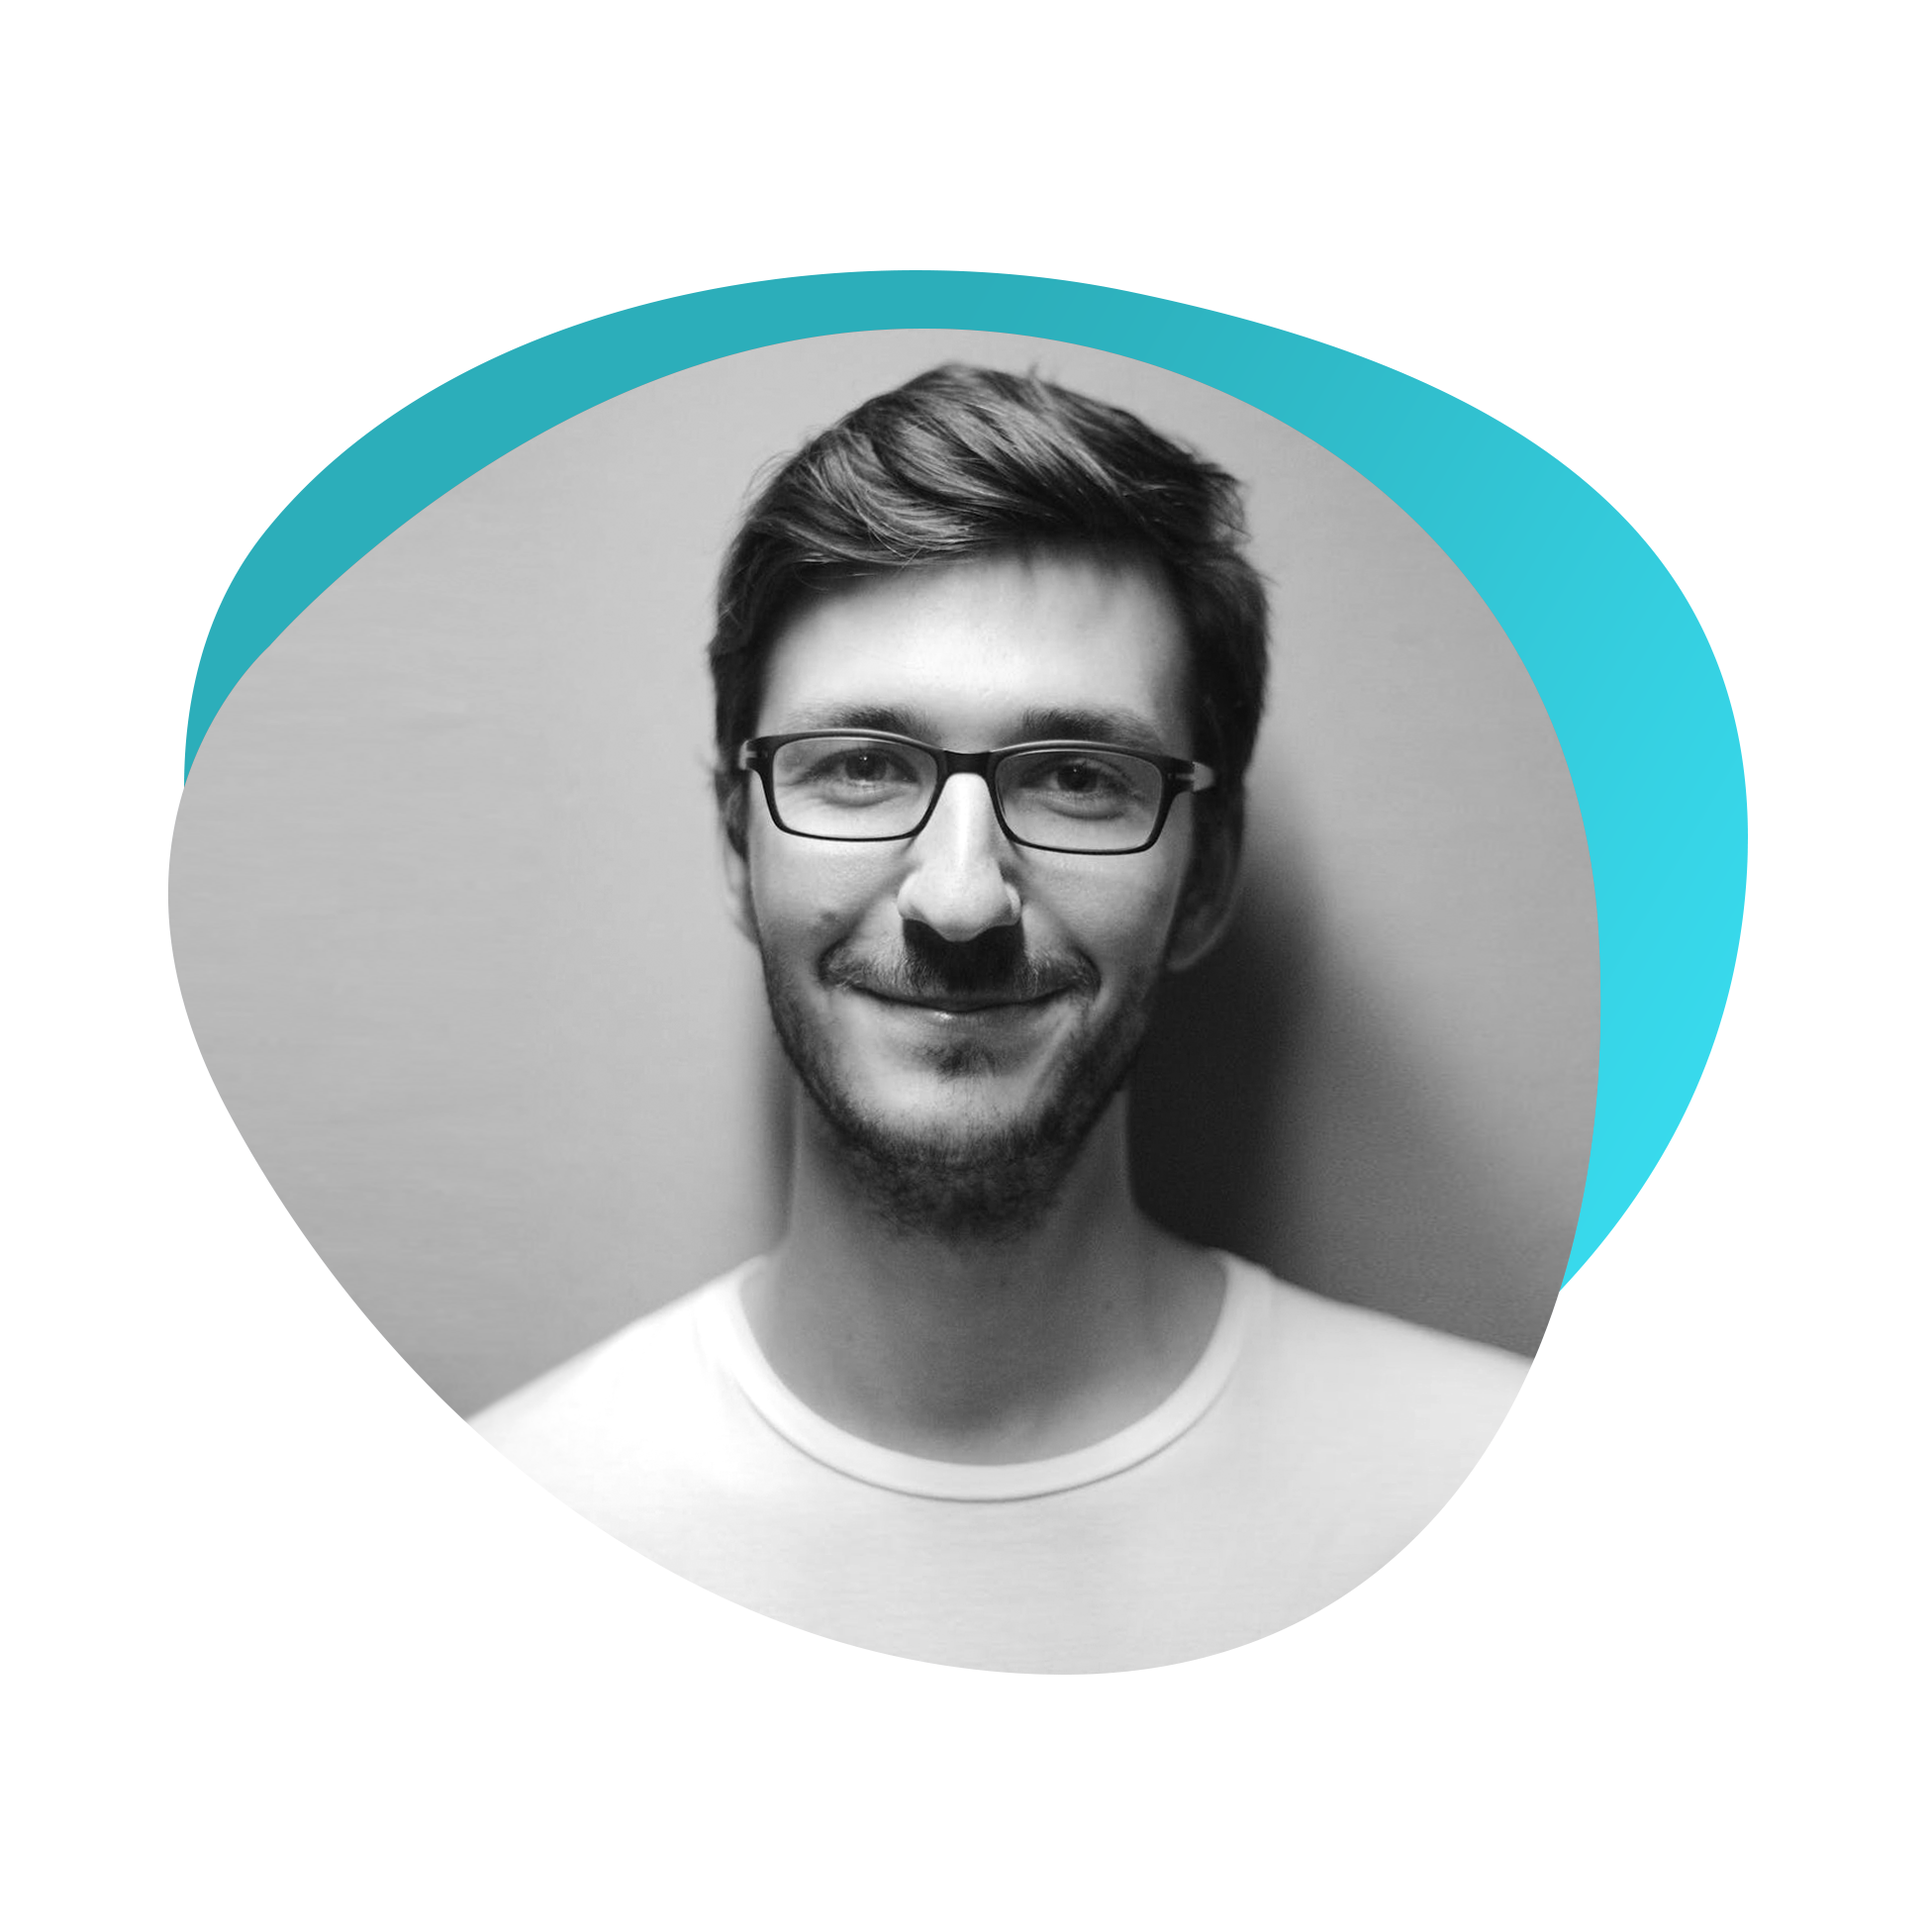
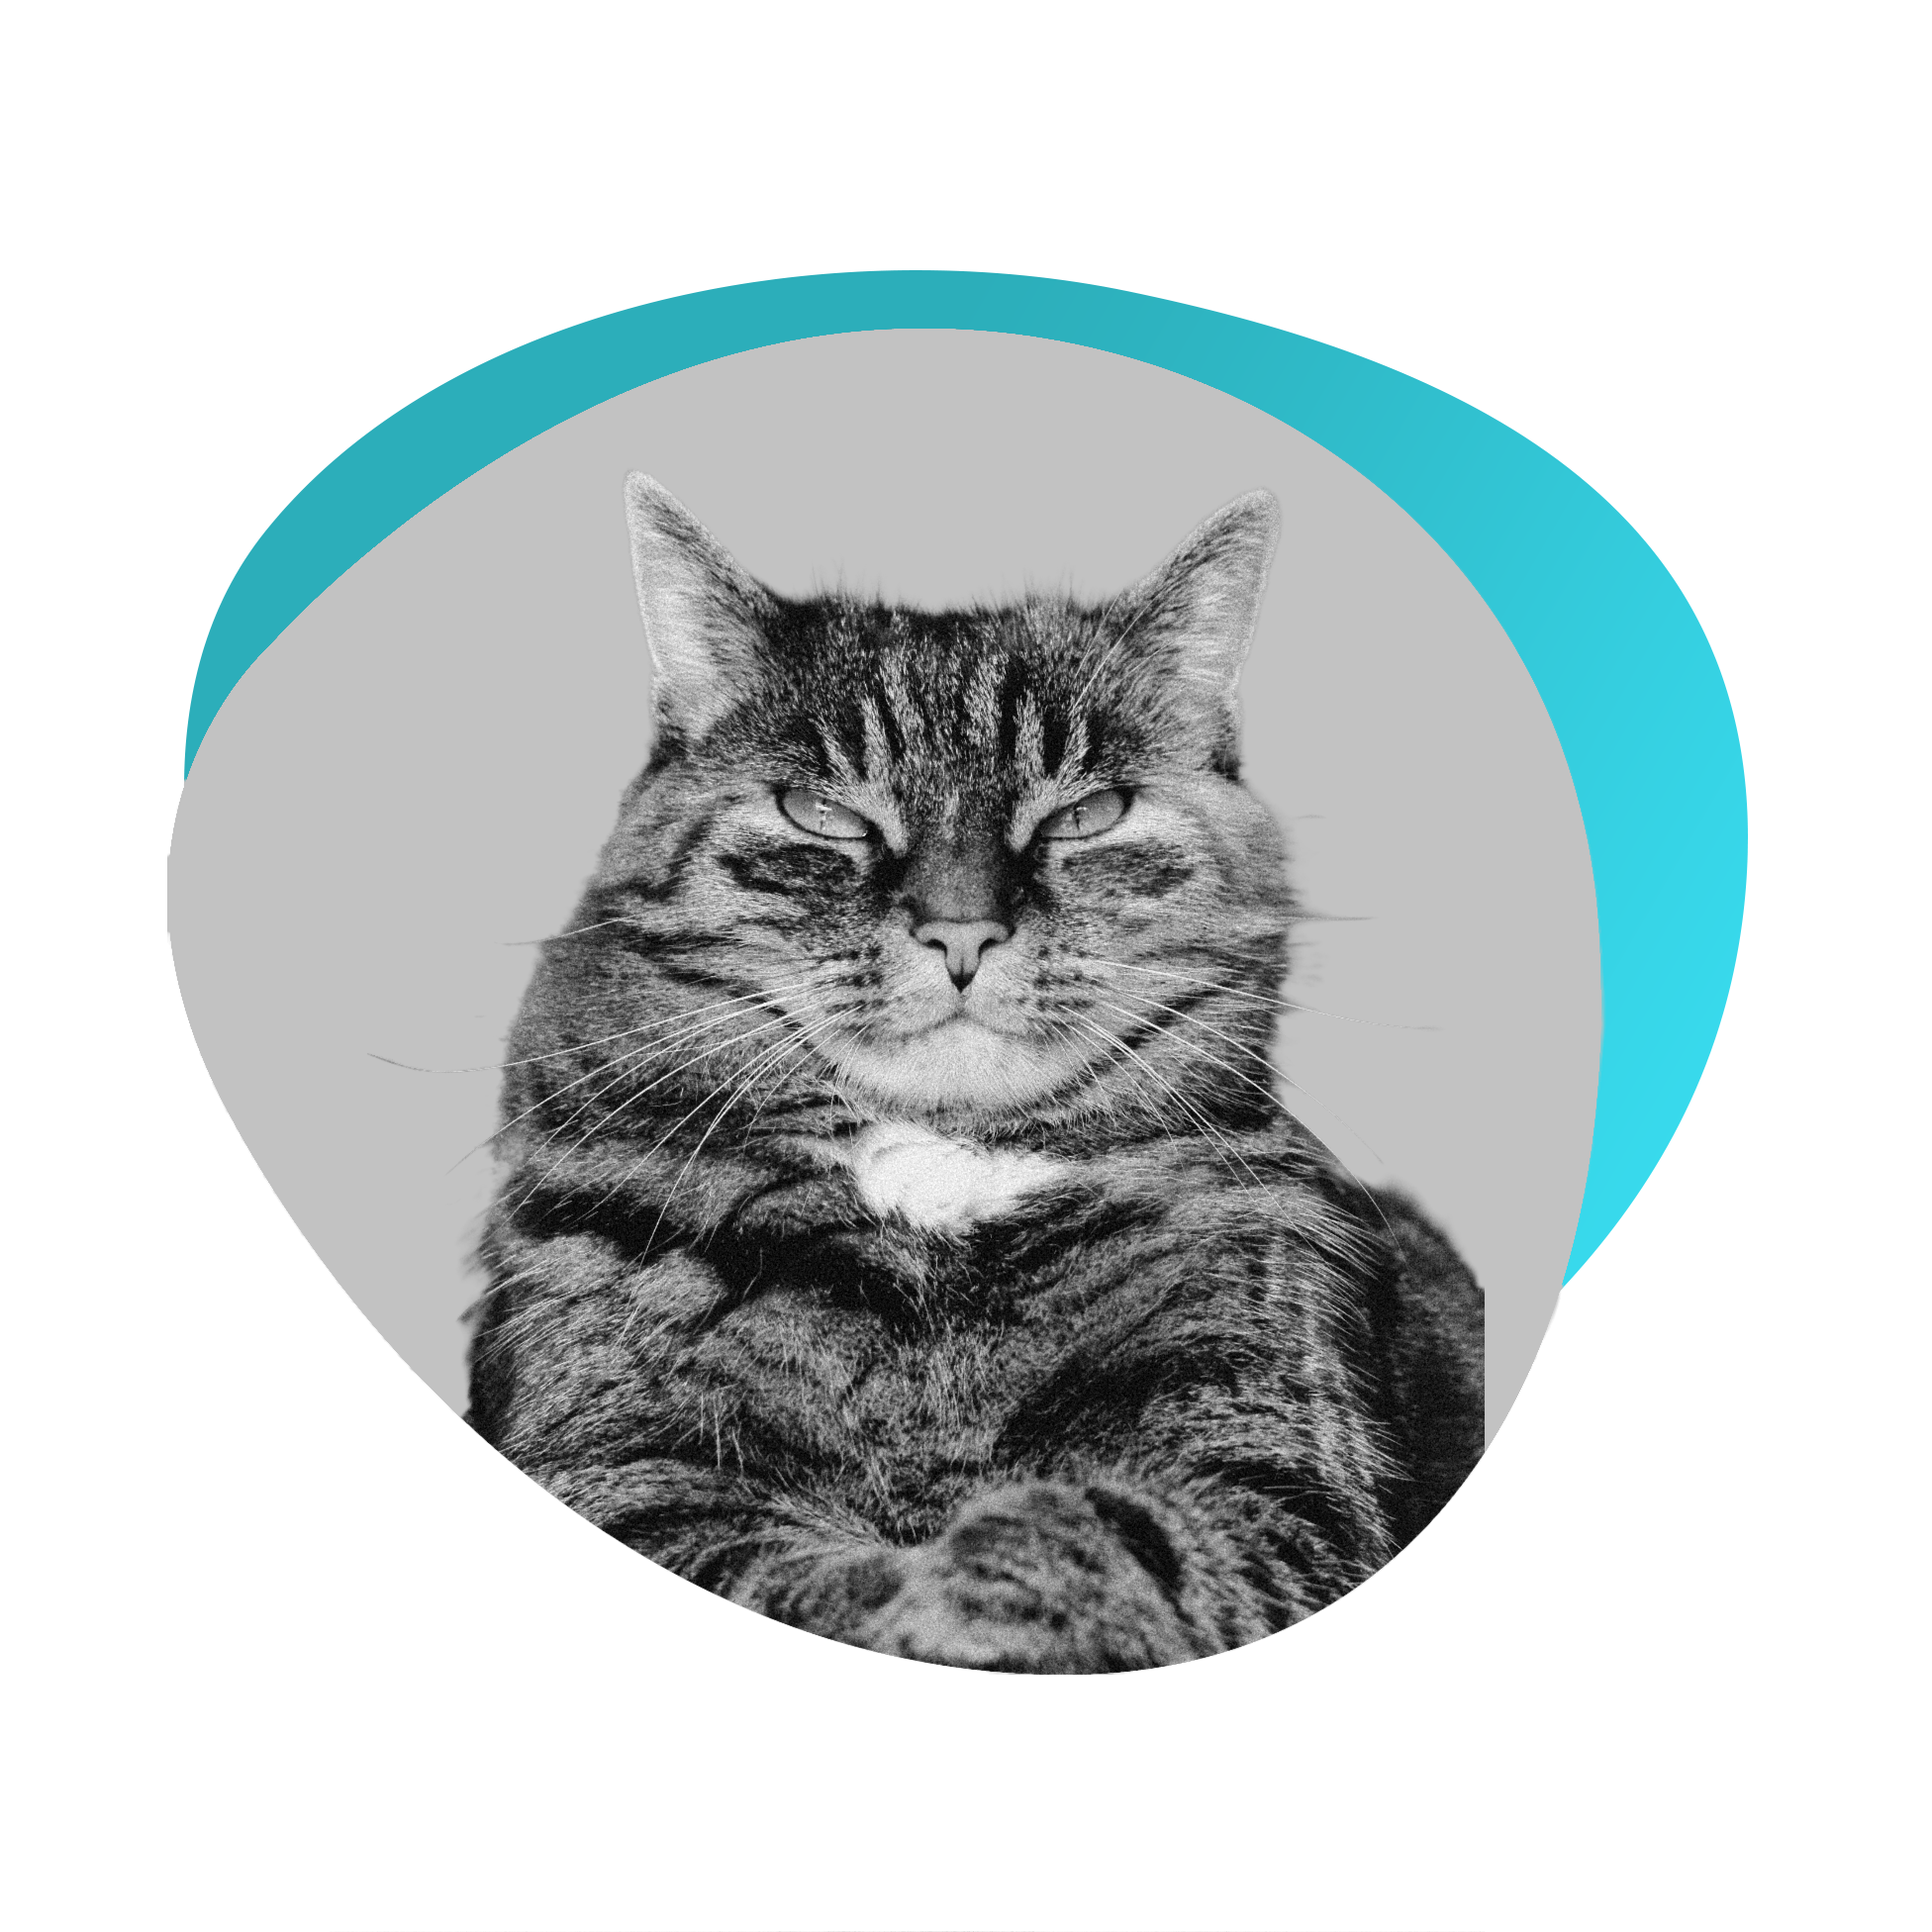
our hero is ready

Changed region(s): [[0.1875, 0.1875, 0.8438, 0.875]]

diff --git a/src/components/Hero.js b/src/components/Hero.js
@@ -1,12 +1,48 @@
-import React from "react"
-import Image from "gatsby-image"
-import { Link } from "gatsby"
-import { graphql, useStaticQuery } from "gatsby"
-import SocialLinks from "../constants/socialLinks"
-// ...GatsbyImageSharpFluid
+import React from "react";
+import Image from "gatsby-image";
+import { Link } from "gatsby";
+import { graphql, useStaticQuery } from "gatsby";
+import SocialLinks from "../constants/socialLinks";
+
+const query = graphql`
+  {
+    file(relativePath: { eq: "hero-img.png" }) {
+      childImageSharp {
+        fluid {
+          ...GatsbyImageSharpFluid
+        }
+      }
+    }
+  }
+`;
 
 const Hero = () => {
-  return <h2>hero component</h2>
-}
+  // const data = useStaticQuery(query);
+  // console.log(data);
+  const {
+    file: {
+      childImageSharp: { fluid },
+    },
+  } = useStaticQuery(query);
 
-export default Hero
+  return (
+    <header className="hero">
+      <div className="section-center hero-center">
+        <article className="hero-info">
+          <div>
+            <div className="underline"></div>
+            <h1>I'm Aristotle</h1>
+            <h4>freelance web and mobile UI/UX Designer</h4>
+            <Link to="/contact" className="btn">
+              contact me
+            </Link>
+            <SocialLinks />
+          </div>
+        </article>
+        <Image fluid={fluid} className="hero-img" />
+      </div>
+    </header>
+  );
+};
+
+export default Hero;

diff --git a/src/pages/index.js b/src/pages/index.js
@@ -7,6 +7,10 @@ import Jobs from "../components/Jobs";
 import Projects from "../components/Projects";
 import Blogs from "../components/Blogs";
 export default () => {
-  return <Layout></Layout>;
+  return (
+    <Layout>
+      <Hero />
+    </Layout>
+  );
 };
 // ...GatsbyImageSharpFluid
